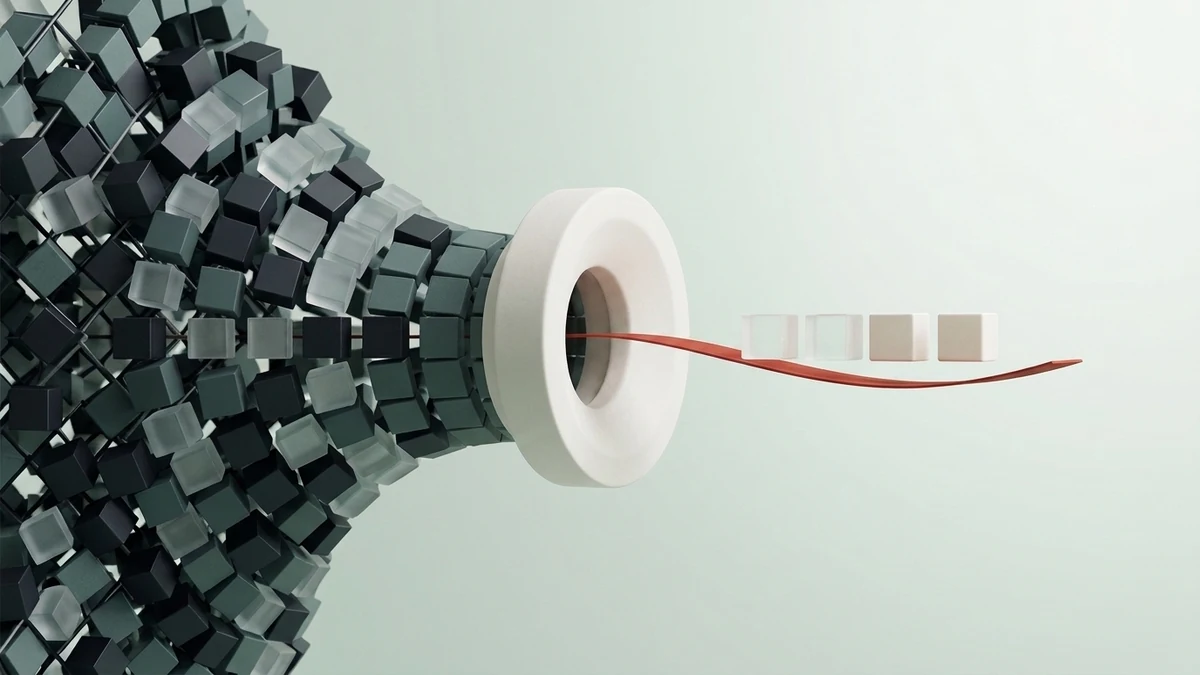
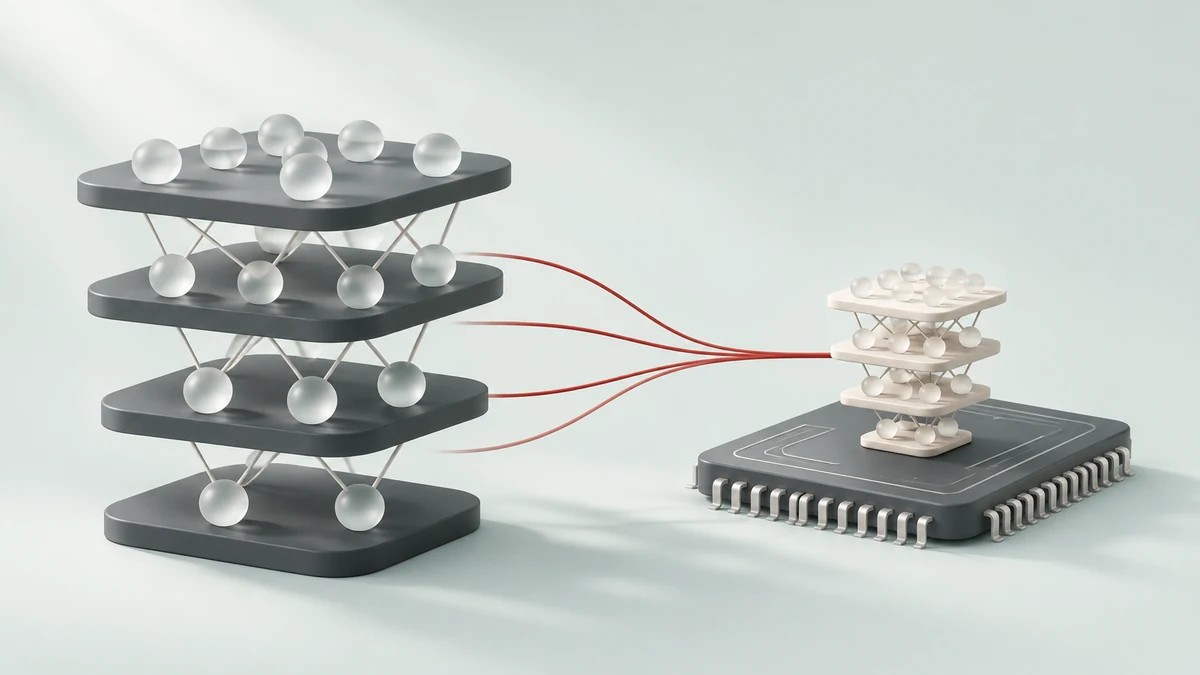
Redesign Core Foundations illustrations on research page

diff --git a/research.html b/research.html
@@ -224,7 +224,7 @@
             <div class="frontier-grid">
                 <article class="frontier-card">
                     <div class="frontier-card-media">
-                        <img class="js-zoomable" src="assets/research/foundation_efficient.webp" loading="lazy" alt="Illustration of Real-Time and Efficient AI: a dense lattice of dark and frosted blocks streamlining through a white porcelain aperture into sparse luminous blocks along a crimson ribbon" />
+                        <img class="js-zoomable" src="assets/research/foundation_efficient.webp" loading="lazy" alt="Illustration of Real-Time and Efficient AI: a large dark multilayer neural network stack compressed along crimson distillation trajectories into a compact ivory model on an edge AI microchip" />
                     </div>
                     <div class="frontier-card-body">
                         <div class="frontier-card-head">
@@ -239,7 +239,7 @@
 
                 <article class="frontier-card">
                     <div class="frontier-card-media">
-                        <img class="js-zoomable" src="assets/research/foundation_rsi.webp" loading="lazy" alt="Illustration of Agentic Intelligence and Recursive Self-Improvement: an ascending matte-ceramic spiral piercing translucent frosted-glass ceilings traced by a crimson arc" />
+                        <img class="js-zoomable" src="assets/research/foundation_rsi.webp" loading="lazy" alt="Illustration of Agentic Intelligence and Recursive Self-Improvement: a multi-branch evolutionary tree with pruned frosted-glass branches, a crimson winning lineage growing into a crystalline polyhedron, and a recursive feedback arc" />
                     </div>
                     <div class="frontier-card-body">
                         <div class="frontier-card-head">
